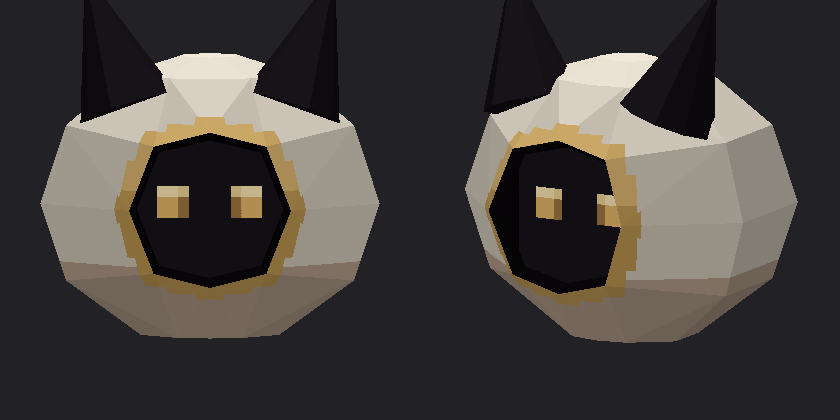
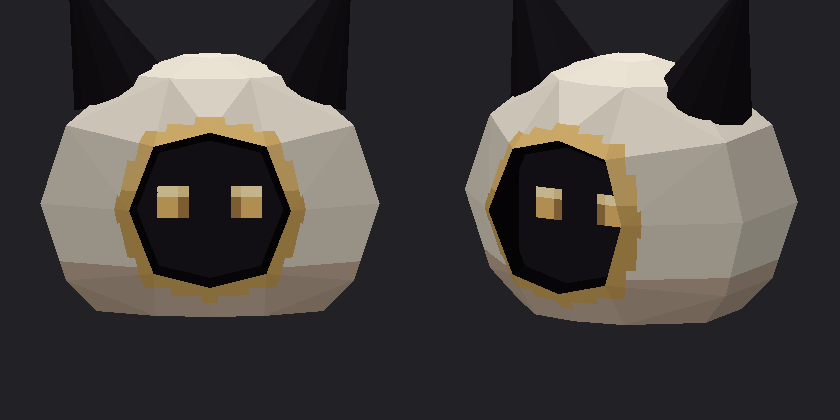
Capucha de Pibble: orejas mas atras y abiertas al costado, abajo abierta
- orejas: arriba de la cabeza y mas atras, abiertas un poco hacia los
  costados (sin inclinarse hacia atras)
- abajo abierta a la altura del cuello (y = 17.3) para conectar el cuerpo;
  solo queda el canto con el grosor de la tela

Claude-Session: https://claude.ai/code/session_01JLSuk79QgXUucDMTiBYitK

diff --git a/taller/personajes/pibble_capucha.py b/taller/personajes/pibble_capucha.py
@@ -2,11 +2,12 @@
 Capucha de Pibble sola (para trabajarla aparte antes de ponerla en el personaje).
 
 Piezas low-poly independientes, con las mismas reglas:
-  - ovalo: un ovalo COMPLETO acostado (mas ancho que alto), armado panel a panel: paneles chicos donde hay
-    curva (alrededor de la cara y en el contorno) y paneles grandes atras. Es una cascara con grosor: afuera
-    crema, adentro negra. En el medio del frente, el agujero ovalado de la cara con filete dorado.
+  - ovalo: un ovalo acostado (mas ancho que alto), armado panel a panel: paneles chicos donde hay curva
+    (alrededor de la cara y en el contorno) y paneles grandes atras. Es una cascara con grosor: afuera crema,
+    adentro negra. En el medio del frente, el agujero ovalado de la cara con filete dorado. Abajo queda
+    abierta, a la altura del cuello, para conectarse con el cuerpo.
   - cabeza: un cubo de vacio adentro de la capucha, con los dos ojos; se ve por el agujero.
-  - dos orejas de gato: conos de base redonda en las esquinas de arriba del ovalo, inclinados hacia afuera y atras.
+  - dos orejas de gato: conos de base redonda arriba de la cabeza, abiertos un poco hacia los costados.
 """
 
 import math
@@ -21,7 +22,7 @@ RX, RY, RZ = 8.5, 7.0, 7.0          # semiejes: ancho, alto, fondo
 GROSOR = 0.8                        # grosor de la tela de la capucha
 # columnas (grados desde el frente hacia +X) y filas (grados de altura): mas juntas cerca de la cara
 ALFAS = (0, 27, 72, 126, 180, 234, 288, 333)
-BETAS = (-66, -32, 0, 32, 60, 80)
+BETAS = (-48, -32, 0, 32, 60, 80)   # abajo queda abierta (ahi se conecta el cuerpo)
 # borde del agujero de la cara: 8 vertices del ovalo (columna, fila)
 BORDE = ((333, -32), (0, -32), (27, -32), (27, 0), (27, 32), (0, 32), (333, 32), (333, 0))
 ESQUINAS = {(333, -32), (27, -32), (27, 32), (333, 32)}
@@ -82,9 +83,12 @@ def ovalo():
             a2 = ALFAS[(k + 1) % len(ALFAS)]
             m.cara((V[a, b], V[a2, b], V[a2, b2], V[a, b2]), lambda c: geo._sub(c, centro), "fuera")
             m.cara((W[a, b], W[a2, b], W[a2, b2], W[a, b2]), lambda c: geo._sub(centro, c), "forro")
-    for b, arriba in ((BETAS[-1], 1), (BETAS[0], -1)):                       # techo chico y abajo
-        m.cara(tuple(V[a, b] for a in ALFAS), (0, arriba, 0), "fuera")
-        m.cara(tuple(W[a, b] for a in ALFAS), (0, -arriba, 0), "forro")
+    m.cara(tuple(V[a, BETAS[-1]] for a in ALFAS), (0, 1, 0), "fuera")         # techo chico
+    m.cara(tuple(W[a, BETAS[-1]] for a in ALFAS), (0, -1, 0), "forro")
+    b = BETAS[0]                                                             # abajo abierta: solo el canto
+    for k, a in enumerate(ALFAS):
+        a2 = ALFAS[(k + 1) % len(ALFAS)]
+        m.cara((V[a, b], V[a2, b], W[a2, b], W[a, b]), (0, -1, 0), "forro")
     for k in range(len(BORDE)):                                              # canto del agujero (el grosor)
         q, q2 = BORDE[k], BORDE[(k + 1) % len(BORDE)]
         m.cara((V[q], V[q2], W[q2], W[q]), lambda c: (CX - c[0], CY - c[1], 0), "forro")
@@ -94,8 +98,8 @@ def ovalo():
 def oreja():
     """Oreja de gato (derecha, +X): un cono de base redonda (10 lados), con la base hundida en el ovalo."""
     cono = geo.piramide(geo.anillo(0, 0, 0, 2.4, 2.4, 10), (0, 6.8, 0))
-    cono = geo.girar(cono, (10, 0, -18))                           # hacia atras y hacia afuera
-    pie = punto(48, 52)                                            # esquina de arriba del ovalo
+    cono = geo.girar(cono, (0, 0, -22))                            # abierta hacia el costado, sin ir hacia atras
+    pie = punto(85, 60)                                            # arriba y mas atras, sobre la cabeza
     return geo.mover(cono, (pie[0], pie[1] - 0.9, pie[2] + 0.4))
 
 
